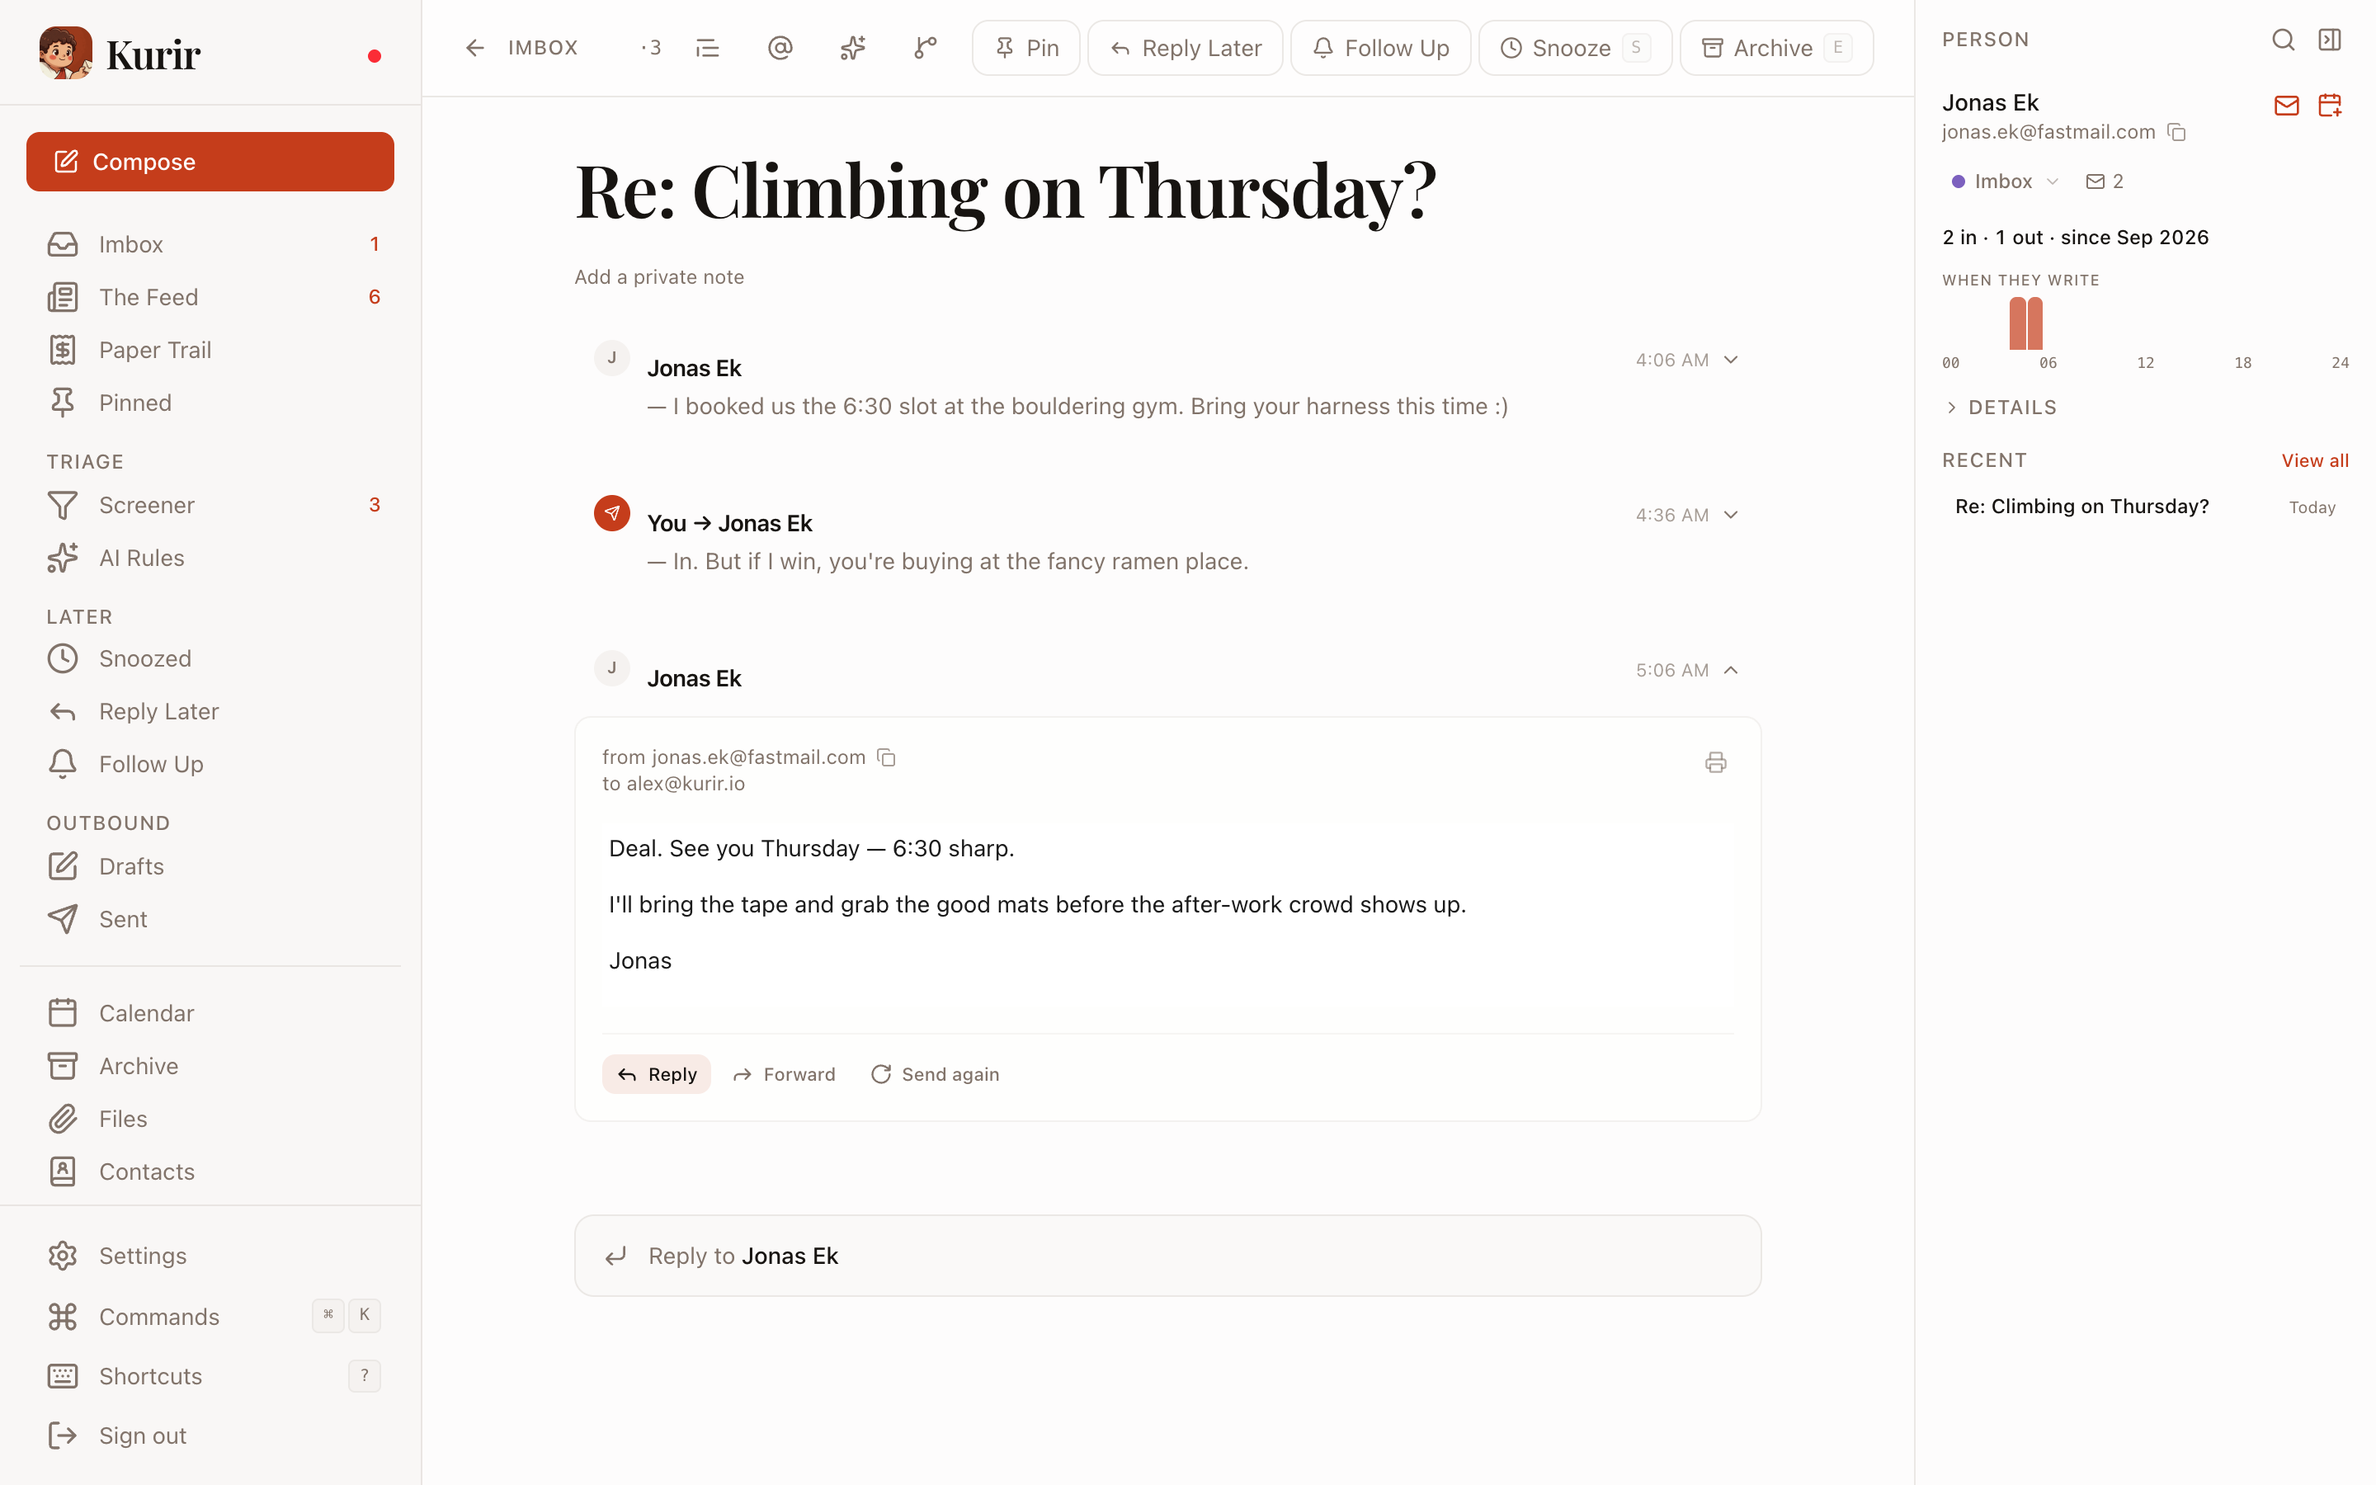
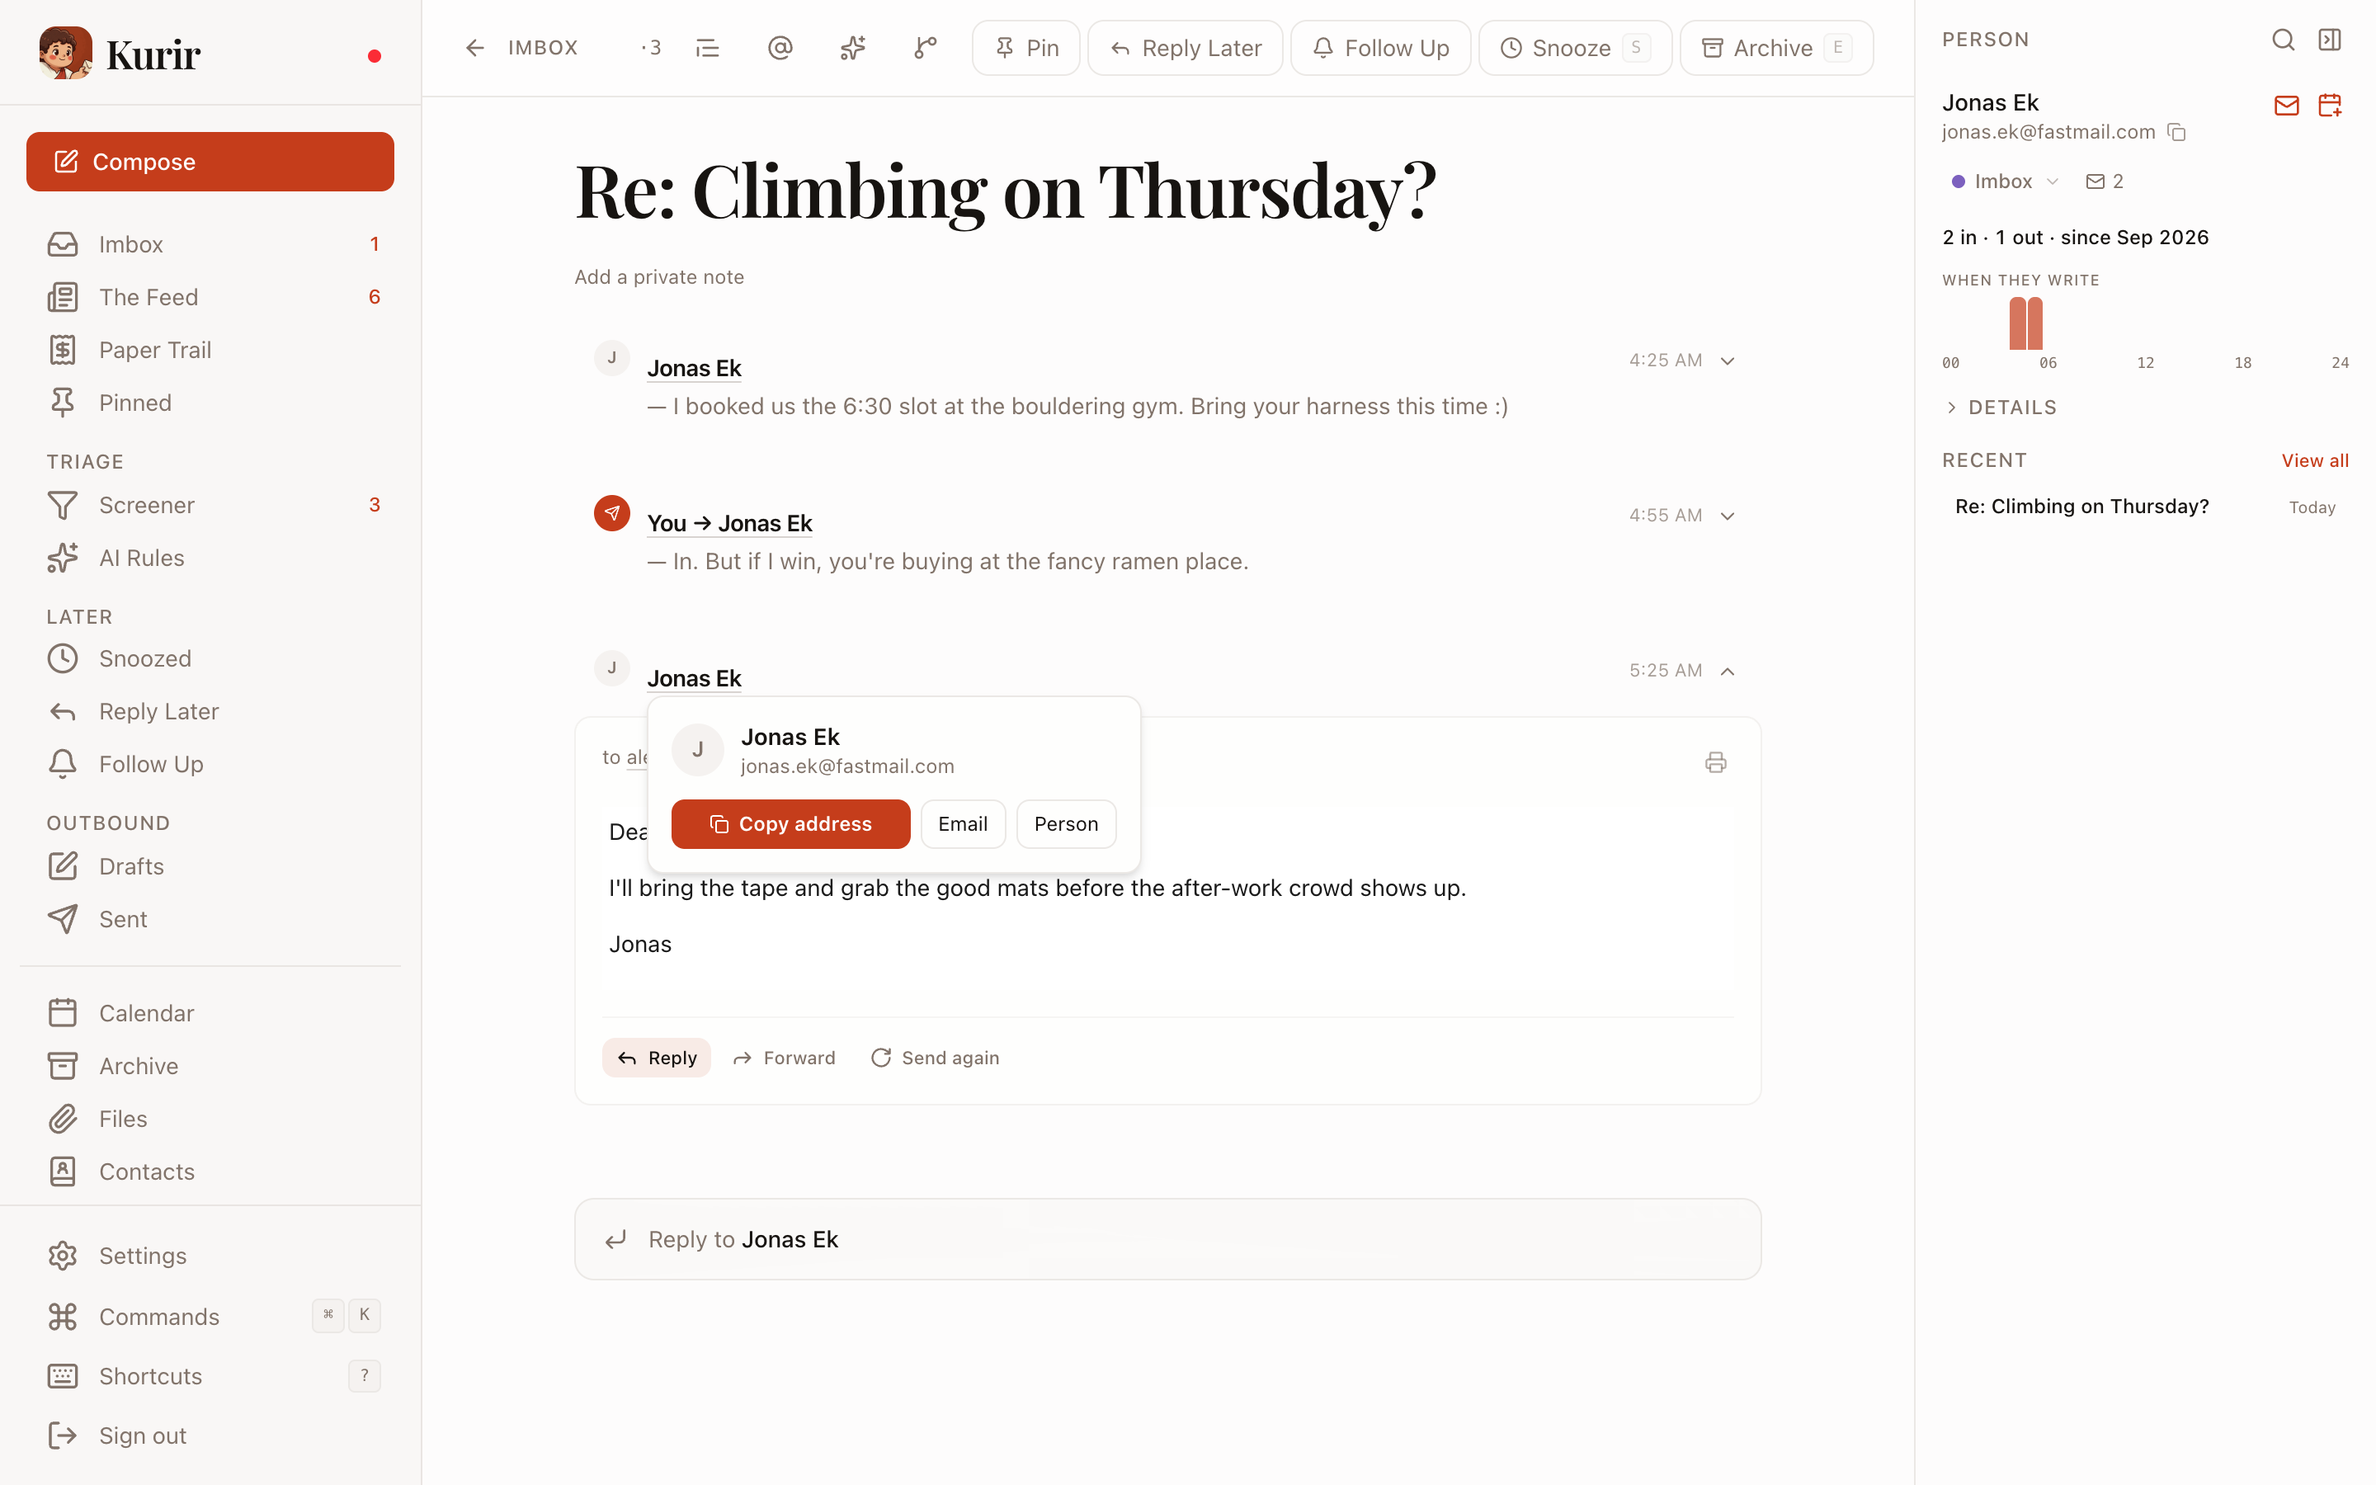
Person card on the thread card's name (design B)
Clicking a name in a card header or in to/cc opens a small card with the
address (selectable), Copy address, Email and Person. Replaces the from
line. The header is a clickable div; the chevron is the keyboard toggle.

diff --git a/src/components/mail/thread-view.tsx b/src/components/mail/thread-view.tsx
@@ -25,7 +25,7 @@ import { EmailBodyFrame } from "@/components/mail/email-body-frame";
 import { AttachmentList } from "@/components/mail/attachment-list";
 import { BlockedImagesBanner } from "@/components/mail/blocked-images-banner";
 import { RecipientList } from "@/components/mail/recipient-list";
-import { CopyableAddress } from "@/components/mail/copyable-address";
+import { PersonCardPopover } from "@/components/mail/person-card-popover";
 import {
   resolveRecipientName,
   type RecipientNameMap,
@@ -212,6 +212,7 @@ function MessageBubble({
   message,
   isFromCurrentUser,
   label,
+  person = null,
   isCollapsed: initialCollapsed,
   isFirst,
   isFocused = false,
@@ -229,6 +230,8 @@ function MessageBubble({
   message: ThreadMessage;
   isFromCurrentUser: boolean;
   label: string;
+  /** Who the header name is (the person card); null for a bcc-only "You". */
+  person?: { name: string | null; address: string } | null;
   isCollapsed: boolean;
   isFirst: boolean;
   /** Linked to directly: expanded, marked, scrolled into view. */
@@ -304,10 +307,12 @@ function MessageBubble({
 
       {/* Content */}
       <div className="min-w-0 flex-1 pb-4 md:pb-8">
-        {/* Header — always visible */}
-        <button
+        {/* Header — always visible. A div, not a button: the name inside
+            opens the person card. The chevron is the keyboard toggle. */}
+        <div
+          data-card-header
           onClick={() => setCollapsed(!collapsed)}
-          className="flex w-full items-start justify-between gap-2 rounded-lg px-3 py-2 text-left transition-colors hover:bg-muted/50"
+          className="flex w-full cursor-pointer items-start justify-between gap-2 rounded-lg px-3 py-2 text-left transition-colors hover:bg-muted/50"
         >
           <div className="flex min-w-0 items-start gap-2.5">
             {/* Sender disc: initial for received mail, paperplane for own. */}
@@ -328,9 +333,19 @@ function MessageBubble({
               )}
             </div>
             <div className="min-w-0">
-              <span className="text-sm font-semibold leading-none tracking-tight">
-                {label}
-              </span>
+              {person ? (
+                <PersonCardPopover
+                  name={person.name}
+                  address={person.address}
+                  className="text-left text-sm font-semibold leading-none tracking-tight"
+                >
+                  {label}
+                </PersonCardPopover>
+              ) : (
+                <span className="text-sm font-semibold leading-none tracking-tight">
+                  {label}
+                </span>
+              )}
               {isFocused && (
                 <span
                   data-card-badge="linked"
@@ -376,14 +391,25 @@ function MessageBubble({
             >
               {formatDate(new Date(message.sentAt || message.receivedAt))}
             </time>
-            <ChevronDown
-              className={cn(
-                "h-3.5 w-3.5 text-muted-foreground transition-transform duration-200",
-                !collapsed && "rotate-180",
-              )}
-            />
+            <button
+              type="button"
+              onClick={(e) => {
+                e.stopPropagation();
+                setCollapsed(!collapsed);
+              }}
+              aria-expanded={!collapsed}
+              aria-label={collapsed ? "Show message" : "Hide message"}
+              className="rounded p-0.5"
+            >
+              <ChevronDown
+                className={cn(
+                  "h-3.5 w-3.5 text-muted-foreground transition-transform duration-200",
+                  !collapsed && "rotate-180",
+                )}
+              />
+            </button>
           </div>
-        </button>
+        </div>
 
         {message.contentRuleLogs && message.contentRuleLogs.length > 0 && (
           <ul className="mt-0.5 space-y-1 px-3">
@@ -413,13 +439,7 @@ function MessageBubble({
             >
               {/* Recipients + actions */}
               <div className="flex items-start justify-between gap-2">
-                <div className="min-w-0 text-xs text-muted-foreground">
-                  {/* The header shows a name; the sender's address lives
-                      here, selectable and one click to copy. */}
-                  <div className="flex min-w-0 items-center gap-1">
-                    from
-                    <CopyableAddress address={message.fromAddress} />
-                  </div>
+                <div className="text-xs text-muted-foreground">
                   <RecipientList
                     label="to"
                     addresses={message.toAddresses}
@@ -617,6 +637,28 @@ export function branchesByCard(
   return byCard;
 }
 
+/**
+ * Who a card's header name is: the sender, or on an own card the first
+ * recipient that is not the user. Null for a bcc-only "You".
+ */
+export function cardPerson(
+  message: ThreadMessage,
+  isOwn: (address: string) => boolean,
+  recipientNames: RecipientNameMap,
+): { name: string | null; address: string } | null {
+  if (!isOwn(message.fromAddress)) {
+    return {
+      name: message.sender?.displayName || message.fromName,
+      address: message.fromAddress,
+    };
+  }
+  const address = [...message.toAddresses, ...message.ccAddresses]
+    .map((a) => a.trim())
+    .find((a) => a && !isOwn(a));
+  if (!address) return null;
+  return { name: recipientNames[address.toLowerCase()] ?? null, address };
+}
+
 export function ThreadView({
   messages,
   currentUserEmail,
@@ -646,6 +688,7 @@ export function ThreadView({
           message={message}
           isFromCurrentUser={isOwn(message.fromAddress)}
           label={cardLabel(message, isOwn, nameFor)}
+          person={cardPerson(message, isOwn, recipientNames)}
           isCollapsed={
             i < messages.length - 1 && message.id !== focusedMessageId
           }

diff --git a/src/components/mail/person-card-popover.tsx b/src/components/mail/person-card-popover.tsx
@@ -1,0 +1,115 @@
+"use client";
+
+import { useEffect, useState, type ReactNode } from "react";
+import Link from "next/link";
+import { usePathname } from "next/navigation";
+import { Check, Copy } from "lucide-react";
+import { Popover, PopoverContent, PopoverTrigger } from "@/components/ui/popover";
+import { senderInitial } from "@/lib/mail/thread-card";
+import { usePersonPaneStore } from "@/stores/person-pane-store";
+import { cn } from "@/lib/utils";
+
+/**
+ * A name in a thread card that opens a small person card: who it is, the
+ * address (selectable), and Copy address / Email / Person.
+ */
+export function PersonCardPopover({
+  name,
+  address,
+  children,
+  className,
+}: {
+  name: string | null;
+  address: string;
+  children: ReactNode;
+  className?: string;
+}) {
+  const pathname = usePathname();
+  const setPaneEmail = usePersonPaneStore((s) => s.setEmail);
+  const setPaneCollapsed = usePersonPaneStore((s) => s.setCollapsed);
+  const [open, setOpen] = useState(false);
+  const [copied, setCopied] = useState(false);
+
+  useEffect(() => {
+    if (!copied) return;
+    const timer = setTimeout(() => setCopied(false), 1500);
+    return () => clearTimeout(timer);
+  }, [copied]);
+
+  const secondary =
+    "rounded-md border border-border px-2.5 py-1.5 text-xs transition-colors hover:bg-muted";
+
+  return (
+    <Popover open={open} onOpenChange={setOpen}>
+      <PopoverTrigger asChild>
+        <button
+          type="button"
+          title={address}
+          // The card header toggles on click; the name opens the card.
+          onClick={(e) => e.stopPropagation()}
+          className={cn(
+            "cursor-pointer underline decoration-muted-foreground/30 underline-offset-[3px] hover:decoration-foreground",
+            className,
+          )}
+        >
+          {children}
+        </button>
+      </PopoverTrigger>
+      <PopoverContent
+        align="start"
+        className="w-[300px] p-3.5"
+        // Portalled, but React still bubbles to the card header.
+        onClick={(e) => e.stopPropagation()}
+      >
+        <div className="flex items-center gap-2.5">
+          <div className="flex h-8 w-8 shrink-0 items-center justify-center rounded-full bg-muted text-[13px] font-semibold text-muted-foreground">
+            {senderInitial(address, name)}
+          </div>
+          <div className="min-w-0">
+            <p className="truncate text-sm font-semibold">{name || address}</p>
+            <p className="truncate text-xs text-muted-foreground select-text">
+              {address}
+            </p>
+          </div>
+        </div>
+        <div className="mt-3 flex gap-1.5">
+          <button
+            type="button"
+            onClick={() => {
+              navigator.clipboard
+                .writeText(address)
+                .then(() => setCopied(true))
+                .catch(() => {});
+            }}
+            className="inline-flex flex-1 items-center justify-center gap-1.5 rounded-md bg-primary px-2.5 py-1.5 text-xs font-semibold text-primary-foreground transition-colors hover:bg-primary/90"
+          >
+            {copied ? (
+              <Check className="h-3 w-3" />
+            ) : (
+              <Copy className="h-3 w-3" />
+            )}
+            {copied ? "Copied" : "Copy address"}
+          </button>
+          <Link
+            href={`/compose?to=${encodeURIComponent(address)}&from=${encodeURIComponent(pathname ?? "/imbox")}`}
+            className={secondary}
+            onClick={() => setOpen(false)}
+          >
+            Email
+          </Link>
+          <button
+            type="button"
+            className={secondary}
+            onClick={() => {
+              setPaneEmail(address);
+              setPaneCollapsed(false);
+              setOpen(false);
+            }}
+          >
+            Person
+          </button>
+        </div>
+      </PopoverContent>
+    </Popover>
+  );
+}

diff --git a/src/__tests__/unit/thread-view-cards.test.tsx b/src/__tests__/unit/thread-view-cards.test.tsx
@@ -96,6 +96,31 @@ describe("ThreadView per-card reply (plan 055)", () => {
     );
   });
 
+  it("opens a person card from the sender name with the address and Copy address", async () => {
+    const writeText = vi.fn().mockResolvedValue(undefined);
+    Object.assign(navigator, { clipboard: { writeText } });
+    render(
+      <ThreadView
+        messages={[
+          message({
+            id: "b1",
+            fromAddress: "bo@corp-b.example",
+            fromName: "Bo",
+            toAddresses: [ME],
+          }),
+        ]}
+        currentUserEmail={ME}
+      />,
+    );
+
+    fireEvent.click(screen.getByRole("button", { name: "Bo" }));
+    expect(await screen.findByText("bo@corp-b.example")).toBeTruthy();
+    fireEvent.click(screen.getByText("Copy address"));
+    expect(writeText).toHaveBeenCalledWith("bo@corp-b.example");
+    // The card stays expanded: the name click did not toggle it.
+    expect(screen.getByText("Send again", { selector: "button" })).toBeTruthy();
+  });
+
   it("offers Reply on the user's own card too, and hides Reply all without extra recipients", () => {
     const onReply = vi.fn();
     render(

diff --git a/src/components/mail/recipient-list.tsx b/src/components/mail/recipient-list.tsx
@@ -5,6 +5,7 @@ import {
   resolveRecipientName,
   type RecipientNameMap,
 } from "@/lib/mail/recipient-names";
+import { PersonCardPopover } from "@/components/mail/person-card-popover";
 
 const TRUNCATE_AT = 3;
 
@@ -34,8 +35,12 @@ export function RecipientList({ label, addresses, nameMap }: RecipientListProps)
       {visible.map((address, i) => (
         <span key={`${address}-${i}`}>
           {i > 0 && ", "}
-          {/* Hover shows the address behind the name. */}
-          <span title={address}>{resolveRecipientName(address, nameMap)}</span>
+          <PersonCardPopover
+            name={nameMap[address.trim().toLowerCase()] ?? null}
+            address={address}
+          >
+            {resolveRecipientName(address, nameMap)}
+          </PersonCardPopover>
         </span>
       ))}
       {overflow > 0 && (

diff --git a/src/__tests__/unit/thread-page-content.test.tsx b/src/__tests__/unit/thread-page-content.test.tsx
@@ -113,8 +113,9 @@ describe("ThreadPageContent reply target", () => {
     expect(screen.getByTestId("composer").textContent).toContain("b1 → Bo");
     const mountsBefore = composerMounts;
 
-    // Expand Anna's (collapsed) card, then reply-all from it.
-    fireEvent.click(screen.getByText("Anna"));
+    // Expand Anna's (collapsed) card from its header (the name itself
+    // opens the person card), then reply-all from it.
+    fireEvent.click(screen.getByText("Anna").closest("[data-card-header]")!);
     const actions = container.querySelector("[data-card-actions]") as HTMLElement;
     fireEvent.click(
       Array.from(actions.querySelectorAll("button")).find(
